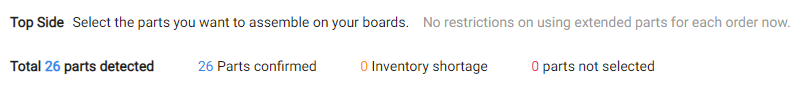
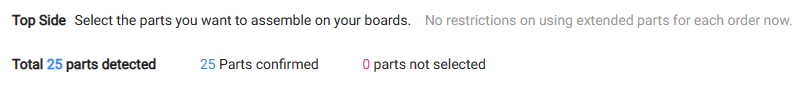
phob2 board ordering guide rev1

diff --git a/For_Makers/Phob2_Ordering_Guide.md b/For_Makers/Phob2_Ordering_Guide.md
@@ -48,9 +48,43 @@ This is where you double-check the part quantities you've selected and make sure
 
 ## Purchasing the board itself
 
-Soon :)
+There are two main ways to acquire a PhobGCC Board. The first way is if you intend to only build a single controller, you can contact a local modder in your region using [this map](https://www.nojonsmods.com/moddermap) to see if they have spare for sale. Alternatively, you can also check [Etsy](https://www.etsy.com/) or [eBay](https://www.ebay.com/) as some often appear for sale. If you cannot find a single board for sale or you intend to build more than one PhobGCC, you can order the boards directly from a board house. The one outlined here will be for [JLCPCB](https://jlcpcb.com/). Once your pre-ordered SMD Components have come in (report as "Complete" in the parts order history), you may proceed to ordering boards.
 
-As pre-ordering components from JLC takes weeks, we are releasing this guide without the board ordering process yet so you won't be bottlenecked when we release this portion later this month.
+First, you can download the files available in the **PhobGCCv2-HW Github** in the releases section as shown below:
+
+**[IMAGE OF DOWNLOAD GOES HERE]**
+
+Once you've extracted the files from the .zip, you should have three files. The Gerbers .zip, the bom.csv, and the pos.csv. Click "Order Now" on JLCPCB, make sure you are set to "Standard PCB/PCBA" tab, click "Add Gerber File", and upload the Gerbers.zip. Once the files are uploaded, you should see the board process and then load in as shown below:
+
+![PHOB2_BOARD](https://github.com/PhobGCC/PhobGCC-doc/blob/main/For_Makers/Phob_Ordering_Guide_Images/phob2_board.PNG?raw=true)
+
+Once you've checked that the size is set to 90.26x125.5mm, you can progress with configuring it.
+The recommended settings are the defaults, setting your board quantity, setting "Different Design" to 2, and setting the Surface Finish to ENIG, as seen below:
+
+**NOTE: ONLY ORDER THE BOARD QUANTITY YOU HAVE PARTS FOR!**
+
+![PHOB2_SETTINGS](https://github.com/PhobGCC/PhobGCC-doc/blob/main/For_Makers/Phob_Ordering_Guide_Images/phob2_settings.PNG?raw=true)
+
+Scroll down to PCB Assembly and toggle it on the right.
+Select Economic PCBA Type (Not available for large orders or colors), the top side, and confirm parts placement as seen below.
+If you choose to use Standard PCBA, JLC will have to add rails to the board, increasing the price significantly.
+
+**NOTE: For large orders more than 50 boards or different colors, Standard Assembly is required. This attaches removable rails to the PCB at a significant extra cost.**
+
+![PHOB2_ASM](https://github.com/PhobGCC/PhobGCC-doc/blob/main/For_Makers/Phob_Ordering_Guide_Images/phob2_asm.PNG?raw=true)
+
+Click "Confirm" and then upload the Phob2_bom.csv to the left and and the Phob2_pos.csv to the right.
+Set the usage description to Research/Education/DIY -> DIY HS Code and click "Next".
+The text at the top of the next screen should look like the following with all 25 confirmed.
+If they are not confirmed, and are not one of the five above in the pre-ordering section, stop ordering and ask in the [PhobGCC Discord](https://discord.gg/yrpUu7mgzm).
+
+![PHOB2_PARTS](https://github.com/PhobGCC/PhobGCC-doc/blob/main/For_Makers/Phob_Ordering_Guide_Images/phob2_parts.PNG?raw=true)
+
+After clicking "Next", you'll be presented with a view of the parts on the board.
+If this screen is corrupted, that's okay.
+The files are known good and this is just the website bugging out.
+You want to make sure there are no red boxes anywhere as those indicate missing components.
+You can then click "Save To Cart" and pay for your boards.
 
 # Purchasing Other PhobGCC Parts
 
